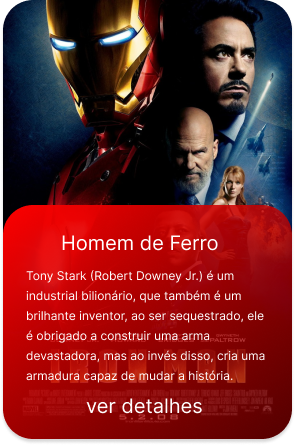
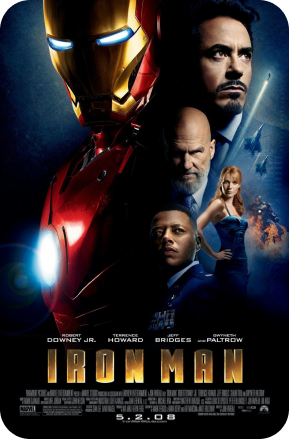
style

diff --git a/src/data/charactersData.js b/src/data/charactersData.js
@@ -1,7 +1,7 @@
 const charactersData = [
     {
       id: 1,
-      image: '../../src/assets/images/card-personagem1.svg',
+      image: '../../src/assets/images/spider-man.png',
       title: 'Homem-Aranha',
       description: 'Após ser mordido por uma aranha radioativa, Peter Parker se torna o amigo da vizinhança, o Homem-Aranha.',
       appearances: [
@@ -15,7 +15,7 @@ const charactersData = [
     },
     {
       id: 2,
-      image: '../../src/assets/images/card-personagem2.svg',
+      image: '../../src/assets/images/wanda.png',
       title: 'Wanda Maximoff',
       description: 'Wanda Maximoff foi sequestrada da Sérvia e trazida para a Montanha Wundagore, base do Alto Evolucionário. Durante anos, ela e seu irmão gêmeo, Pietro, acreditavam que eram filhos de um casal de ciganos.',
       appearances: [
@@ -29,7 +29,7 @@ const charactersData = [
     },
     {
       id: 3,
-      image: '../../src/assets/images/card-personagem3.svg',
+      image: '../../src/assets/images/thanos.png',
       title: 'Thanos',
       description: 'A lua Titã era governada por Mentor (A\'Lars), quando então reinava paz e tecnologia. Mentor tinha dois filhos: Eros e Thanos.  Ao contrário do irmão, Thanos, era bem mais poderoso e almejava ainda mais.',
       appearances: [
@@ -42,7 +42,7 @@ const charactersData = [
     },
     {
       id: 4,
-      image: '../../src/assets/images/card-personagem4.svg',
+      image: '../../src/assets/images/hulk.png',
       title: 'Hulk',
       description: 'Na história original dos quadrinhos, o Hulk é um selvagem e poderoso alter ego do Dr. Robert Bruce Banner, um cientista que foi atingido por raios gama enquanto salvava um adolescente durante o teste militar.',
       appearances: [

diff --git a/src/components/Card/CardDetails/styled.ts b/src/components/Card/CardDetails/styled.ts
@@ -6,12 +6,12 @@ interface CardDetailsProps {
 }
 
 export const CardDetailsContainer = styled.div`
-  color: #ffff;
 
+  color: #ffff;
   width: 100%;
   height: 439px;
-  gap: 20px;
   background: linear-gradient(to bottom, red, rgba(78, 0, 0, 1));
+  row-gap: 40px;
 `;
 
 export const CardDetailsContent = styled.div.withConfig({
@@ -19,15 +19,15 @@ export const CardDetailsContent = styled.div.withConfig({
 })<CardDetailsProps>`
   display: flex;
   justify-content: space-between;
-  gap: 5px;
+  gap: 30px;
   flex-direction: column;
   width: calc(55%);
-  margin-top: 25px;
-  padding: 50px 5px 10px 16px;
+  margin: 60px 0px 20px 40px;
   width: 55%;
   color: #ffff;
   position: absolute;
   right: ${({ index }) => (index === 0 ? "0" : "auto")};
+  row-gap: 20px;
 
   h1 {
     font-size: 20px;
@@ -58,7 +58,6 @@ export const CardDetailsContent = styled.div.withConfig({
     width: 25px;
     height: 25px;
     margin-top: 10px;
-    margin-right: 5px;
   }
 
   @media (max-width: 1025px) {
@@ -82,7 +81,6 @@ export const CardDetailsContent = styled.div.withConfig({
       width: 25px;
       height: 25px;
       margin-top: 5px;
-      margin-right: 5px;
     }
   }
 

diff --git a/src/data/moviesData.js b/src/data/moviesData.js
@@ -1,7 +1,7 @@
 const moviesData = [
     {
       id: 1,
-      image: '../../src/assets/images/card-poster1.png',
+      image: '../../src/assets/images/iron-man-1.png',
       title: 'Homem de Ferro',
       description: 'Tony Stark (Robert Downey Jr.) é um industrial bilionário, que também é um brilhante inventor, ao ser sequestrado, ele é obrigado a construir uma arma devastadora, mas ao invés disso, cria uma armadura capaz de mudar a história.',
       criticRating: 3,
@@ -40,7 +40,7 @@ const moviesData = [
     },
     {
       id: 5,
-      image: '../../src/assets/images/card-poster5.png',
+      image: '../../src/assets/images/marvel-capitan.png',
       title: 'Capitã Marvel',
       description: 'Capitã Marvel, parte do exército de elite dos Kree, uma raça alienígena, encontra-se no meio de uma batalha entre seu povo e os Skrulls. ',
       criticRating: 4, 

diff --git a/src/components/Card/CardContent/styled.ts b/src/components/Card/CardContent/styled.ts
@@ -4,14 +4,17 @@ interface AvailableProps {
   needBg: boolean;
 }
 
+
 export const Content = styled.div`
   display: flex;
+  justify-content: space-between;
   flex-direction: column;
 
   >p {
-    font-size: 14px;
+    font-size: 12px;
     color: #ffff;
     font-weight: 100;
+
   }
 
   @media (max-width: 1025px) {
@@ -32,6 +35,7 @@ export const Available = styled.div`
   flex-direction: column;
   margin-top: 15px;
 
+
   h3 {
     font-size: 16px;
     font-weight: 500;
@@ -44,6 +48,7 @@ export const ImageIconContainer = styled.div.withConfig({
 })<AvailableProps>`
   margin-top: 10px;
 
+
   ${({ needBg }) =>
     needBg &&
     `
@@ -54,6 +59,7 @@ export const ImageIconContainer = styled.div.withConfig({
     display: flex;
     justify-content: center;
     align-items: center;
+
     
     img {
       margin: 0;
